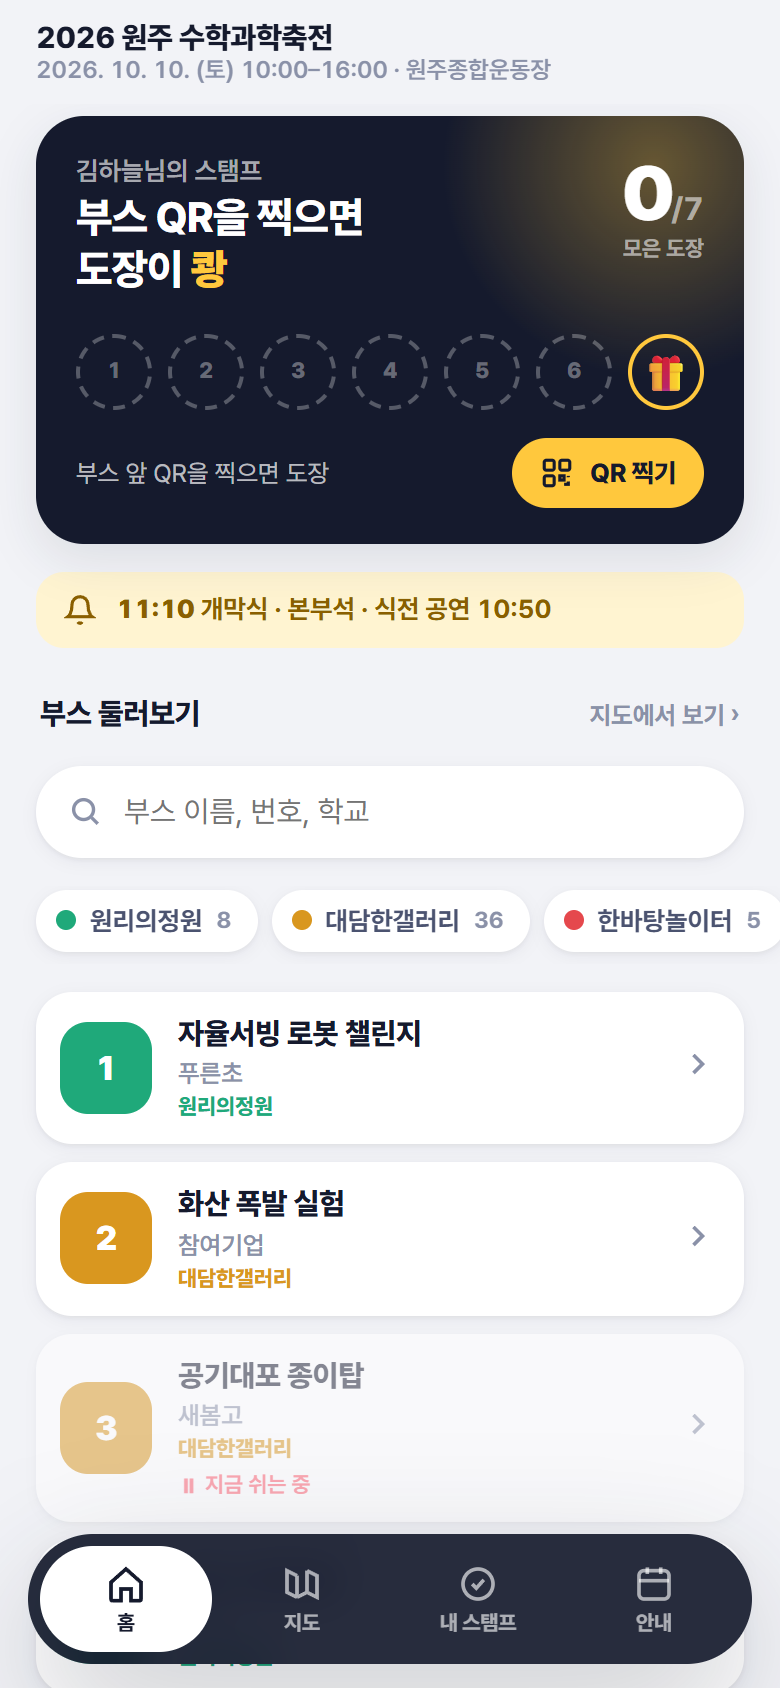
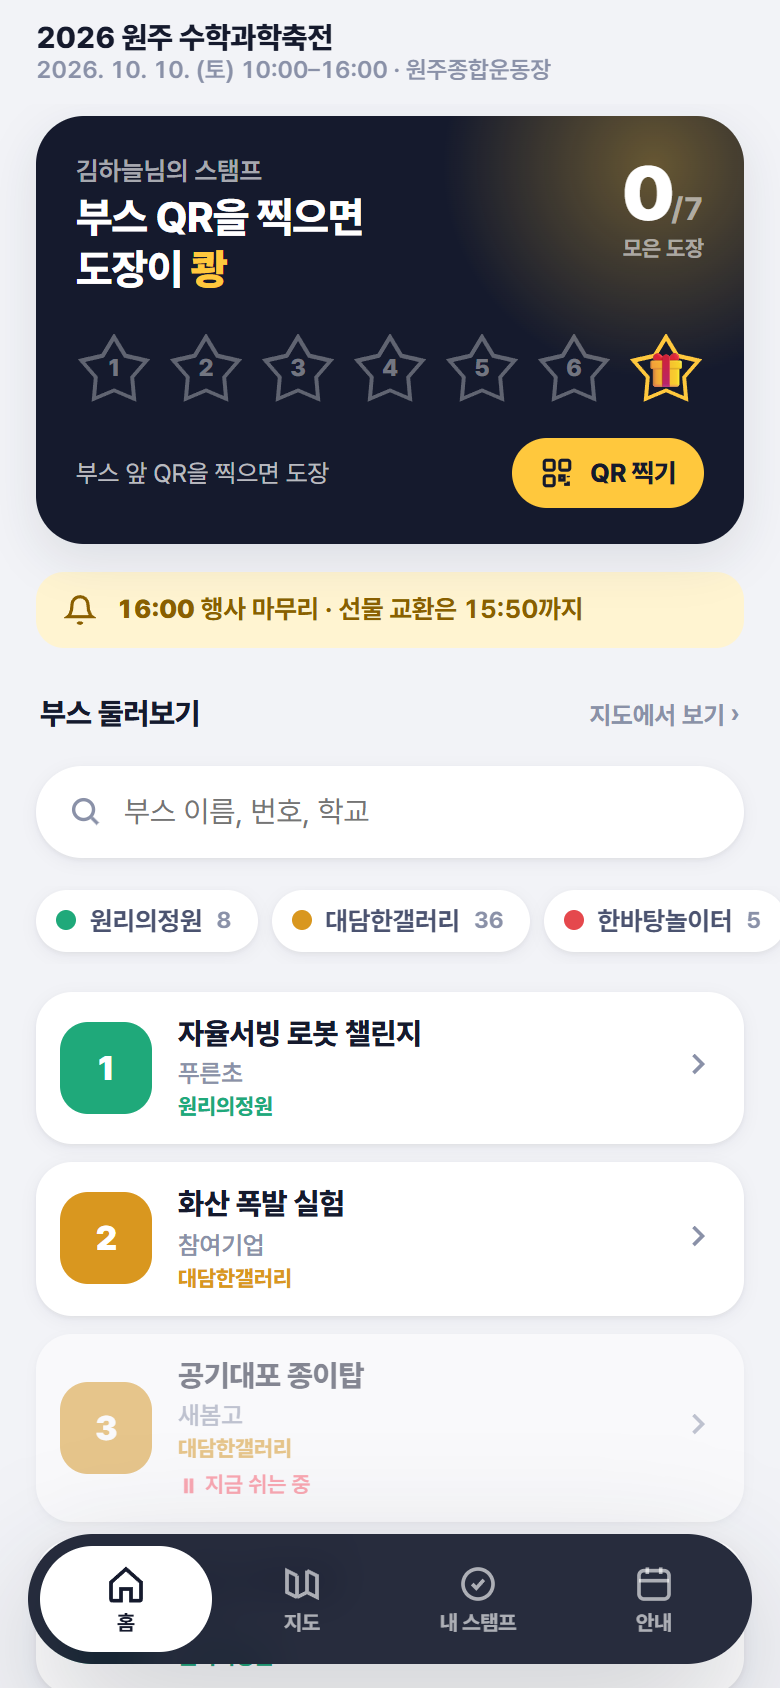
도장 칸 별 모양 · 시간대 전환 자료 분리 · 시간 시트 24시간 입력
- 도장 칸 전부 뚱뚱한 별(clip-path): 빈 칸 흐린 테두리, 찍히면 노란 별, 마지막 칸 🎁
- 시간대 전환 variant 에 hours·media(video/pdf/img) 추가 → 전환 후 사진·PDF·영상이 카드 자료와 안 섞임
- [시간] 시트: 브라우저 time 선택기 대신 24시간 HH:MM 글자 입력(자동 콜론·검증), 라벨 정렬 UI
- 자료·시간 시트 업로드 공용(bindUpload)

diff --git a/원주축전_스탬프앱_3.html b/원주축전_스탬프앱_3.html
@@ -122,12 +122,14 @@ select.inp.sm{padding-right:30px;background-position:right 10px center}
 .sc-count .n small{font-size:16px;color:rgba(255,255,255,.55);font-weight:700;letter-spacing:0}
 .sc-count .l{font-size:11px;color:rgba(255,255,255,.55);font-weight:700;margin-top:2px}
 .slots{display:grid;grid-template-columns:repeat(var(--cols,7),1fr);gap:8px;margin-top:18px;justify-items:center}
-.slot{width:100%;aspect-ratio:1;max-width:66px;border-radius:50%;border:2px dashed rgba(255,255,255,.28);display:grid;place-items:center;position:relative;font-size:11px;font-weight:800;color:rgba(255,255,255,.35)}
-.slot.ink{border:0;background:var(--sun);color:var(--ink);box-shadow:0 6px 14px rgba(255,200,61,.35);transform:rotate(-8deg);animation:stampIn .5s cubic-bezier(.2,1.6,.4,1) both}
+/* 도장 칸 = 뚱뚱한 별(clip-path). 빈 칸: 흐린 별 테두리(::before 가 안쪽을 카드색으로 덮음) · 찍힘: 노란 별 · 마지막 칸: 노란 테두리 별 + 🎁 */
+.slot{--star:polygon(50% 0%,66.5% 27.4%,97.6% 34.5%,76.6% 58.7%,79.4% 90.5%,50% 78%,20.6% 90.5%,23.4% 58.7%,2.4% 34.5%,33.5% 27.4%);width:100%;aspect-ratio:1;max-width:70px;clip-path:var(--star);background:rgba(255,255,255,.32);display:grid;place-items:center;position:relative;isolation:isolate;box-sizing:border-box;padding-bottom:9%;font-size:12px;font-weight:800;color:rgba(255,255,255,.4)}
+.slot::before{content:"";position:absolute;inset:0;background:var(--ink);clip-path:var(--star);transform:scale(.8);transform-origin:50% 46%;z-index:-1}
+.slot.ink{background:var(--sun);color:var(--ink);transform:rotate(-8deg);animation:stampIn .5s cubic-bezier(.2,1.6,.4,1) both}
+.slot.ink::before{display:none}
 .slot.ink .num{font-size:15px;font-weight:900;letter-spacing:-.02em}
-.slot.ink::after{content:"";position:absolute;inset:4px;border:1.5px dashed rgba(21,26,45,.35);border-radius:50%}
-.slot.gift{border:2px solid var(--sun);color:var(--sun);font-size:18px}
-.slot.ink.pend{background:var(--sun-soft);box-shadow:none;border:2px dashed var(--sun)}
+.slot.gift{background:var(--sun);color:var(--sun);font-size:17px}
+.slot.ink.pend{background:var(--sun-soft)}
 .sg .n.pend{background:var(--sun-soft);border:2px dashed var(--sun)}
 @keyframes stampIn{0%{transform:scale(1.9) rotate(10deg);opacity:0}60%{opacity:1}100%{transform:scale(1) rotate(-8deg);opacity:1}}
 .sc-foot{margin-top:14px;font-size:12.5px;color:rgba(255,255,255,.7);display:flex;align-items:center;gap:8px}
@@ -166,6 +168,10 @@ select.inp.sm{padding-right:30px;background-position:right 10px center}
 .hero .pill{background:rgba(255,255,255,.2);color:#fff;margin-top:14px}
 .desc{font-size:15px;line-height:1.7;color:var(--ink-2)}
 .bimg{width:100%;display:block;border-radius:var(--r);box-shadow:var(--sh-1);aspect-ratio:16/10;object-fit:cover;background:var(--card-2);cursor:zoom-in}
+/* 관리자 시간 시트: 라벨 74px + 입력 한 줄, 시각 칸은 가운데 정렬 숫자 */
+.tsheet .tf{display:flex;align-items:flex-start;gap:8px;margin-top:8px}.tsheet .tf .tlb{flex:0 0 74px;font-size:13px;font-weight:700;color:var(--ink-2);padding-top:9px;line-height:1.3}
+.tsheet .tf>.inp,.tsheet .tf>.grow,.tsheet .tf>.row{flex:1;min-width:0}.tsheet .tmr{gap:6px;align-items:center}.tsheet .tmi{width:0;flex:1;text-align:center;font-variant-numeric:tabular-nums;letter-spacing:.04em}
+.tsheet .tsub{font-size:13px;font-weight:800;margin-top:14px;padding-top:10px;border-top:1px solid var(--line-2)}.inp.bad{border-color:var(--coral)}
 .bimgwrap{position:relative}.bimgwrap .hint{position:absolute;right:10px;bottom:10px;background:rgba(0,0,0,.55);color:#fff;font-size:11px;font-weight:700;padding:4px 9px;border-radius:999px;pointer-events:none}
 .lightbox{position:fixed;inset:0;z-index:60;background:rgba(0,0,0,.93);display:none;align-items:center;justify-content:center;padding:16px;cursor:zoom-out}.lightbox.show{display:flex}.lightbox img{max-width:100%;max-height:100%;object-fit:contain;border-radius:10px;box-shadow:0 8px 40px rgba(0,0,0,.5)}.lightbox .x{position:absolute;top:calc(12px + var(--sat,0px));right:14px;width:40px;height:40px;border-radius:50%;border:0;background:rgba(255,255,255,.15);color:#fff;font-size:22px;line-height:40px;text-align:center}
 .yt{position:relative;aspect-ratio:16/9;border-radius:14px;overflow:hidden;background:#000}
@@ -874,13 +880,14 @@ const S = {
   svTimer: null,       // 설문 카운트다운 인터벌
   settingsRaw: null,   // 서버 settings.data 원본 (관리자 저장 시 병합용)
 };
-/* 시간대 전환 부스: variant {at,name,org,cat,desc} 가 있고 지금 시각이 at 이후면 바뀐 내용으로 보여줌(번호·id·QR·도장은 그대로). 원래 이름은 baseName 에 */
+/* 시간대 전환 부스: variant {at,name,org,cat,desc,hours,media} 가 있고 지금 시각이 at 이후면 바뀐 내용으로 보여줌(번호·id·QR·도장은 그대로). 원래 이름은 baseName 에.
+   media {video,pdf,img} 가 있으면 바뀐 후엔 그 자료만 보임(카드 자료와 안 섞임), 없으면 카드 자료 그대로. hours 비우면 카드 운영 시간 그대로 */
 function nowMin(){ const d = new Date(); return d.getHours() * 60 + d.getMinutes(); }
 function toMin(t){ const m = String(t || '').match(/(\d{1,2}):(\d{2})/); return m ? +m[1] * 60 + +m[2] : null; }
 /* 일정 시간: '09:00' 또는 '09:00~10:00'(~ - – 모두 됨). 범위면 {start, end} 둘 다, 아니면 end 없음 */
 function schedRange(t){ const m = String(t || '').match(/(\d{1,2}:\d{2})\s*[~\-–]\s*(\d{1,2}:\d{2})/); return m ? { start: m[1], end: m[2] } : { start: String(t || '').trim(), end: '' }; }
 function schedTimeHTML(t){ const r = schedRange(t); return r.end ? `${esc(r.start)}<small>~${esc(r.end)}</small>` : esc(r.start); }
-function bv(b){ const v = b && b.variant; if(!v || toMin(v.at) === null || nowMin() < toMin(v.at)) return b; return { ...b, name: v.name || b.name, org: v.org || b.org, cat: v.cat || b.cat, desc: v.desc || b.desc, switched: true, baseName: b.name }; }
+function bv(b){ const v = b && b.variant; if(!v || toMin(v.at) === null || nowMin() < toMin(v.at)) return b; const m = v.media; return { ...b, name: v.name || b.name, org: v.org || b.org, cat: v.cat || b.cat, desc: v.desc || b.desc, hours: v.hours || b.hours, ...(m ? { video: m.video || '', pdf: m.pdf || '', img: m.img || '' } : {}), switched: true, baseName: b.name }; }
 /* 부스 대상: '' 전체 · elem 초등 이하 · secondary 중고등. 등록 구분(초/중/고/성인)으로 판정 — 성인·미등록은 전부 보임 */
 const TARGETS = [{ id: '', name: '전체' }, { id: 'elem', name: '초등 이하' }, { id: 'secondary', name: '중고등' }];
 function targetName(t){ return (TARGETS.find(x => x.id === (t || '')) || TARGETS[0]).name; }
@@ -2104,7 +2111,7 @@ function admBooths(){
           <select class="inp sm f-zone" data-f="zone" title="구역">${ZONES.map(z => `<option value="${z.id}" ${z.id === (b.zone || '') ? 'selected' : ''}>${z.name}</option>`).join('')}</select>
           <input type="hidden" data-f="target" value="${esc(b.target || '')}"><div class="tsel" data-tsel="${i}" title="대상: 초등 이하로 두면 중고등학생 폰에는 안 보이고 도장도 안 찍혀요">${TARGETS.map(t => `<button type="button" class="${(b.target || '') === t.id ? 'on' : ''}" data-t="${t.id}">${t.name}</button>`).join('')}</div>
           <input type="hidden" data-f="hours" value="${esc(b.hours || '')}"><input type="hidden" data-f="variant" value="${esc(b.variant ? JSON.stringify(b.variant) : '')}">
-          <span class="mchip ${b.hours ? 'on' : ''}" data-m="hours">🕒 ${esc(b.hours || '종일')}</span><span class="mchip ${b.variant ? 'on' : ''}" data-m="variant">🔁 ${b.variant ? esc(b.variant.at) + ' 전환' : '전환 없음'}</span><button class="btn xs soft" data-time="${i}" style="white-space:nowrap" title="운영 시간 · 시간대 전환">시간</button>
+          <span class="mchip ${b.hours ? 'on' : ''}" data-m="hours">🕒 ${esc(b.hours || '종일')}</span><span class="mchip ${b.variant ? 'on' : ''}" data-m="variant">🔁 ${b.variant ? esc(b.variant.at) + ' 전환' + (b.variant.media ? ' · 자료 별도' : '') : '전환 없음'}</span><button class="btn xs soft" data-time="${i}" style="white-space:nowrap" title="운영 시간 · 시간대 전환">시간</button>
           <input class="inp sm f-desc" value="${esc(b.desc || '')}" data-f="desc" placeholder="소개 (방문객 부스 소개 화면에 나와요)"></div></div>`).join('')}
     </div>
     <div class="row no-print"><button class="btn blue" id="bSave">변경사항 저장</button><span class="small muted">저장 전엔 지도에 반영되지 않아요</span></div>`);
@@ -2139,12 +2146,19 @@ function admBooths(){
   const nKey = n => { const m = String(n || '').trim().match(/^(\D*)(\d+)(.*)$/); return m ? [m[1] ? 1 : 0, m[1], +m[2], m[3]] : [2, String(n || ''), 0, '']; };
   $('#bSort').onclick = () => { const list = collect(); list.sort((a, b) => { const x = nKey(a.n), y = nKey(b.n); for(let k = 0; k < 4; k++){ if(x[k] < y[k]) return -1; if(x[k] > y[k]) return 1; } return 0; }); S.booths = list; renderAdmin('booths'); toast('번호순으로 정렬했어요 · 저장을 눌러야 반영돼요'); };
   /* 자료(영상·PDF·사진) 편집 시트. 행의 hidden input(data-f=video/pdf/img)을 읽고 [확인] 때 다시 써넣음 → 저장은 표 아래 [변경사항 저장] 한 번 */
+  const fname = u => { u = String(u || ''); if(u.startsWith('local:')) return '올린 파일'; try{ return decodeURIComponent(u.split('?')[0].split('/').pop()) || u; }catch(e){ return u; } };
+  const pvImg = (box, url) => { box.innerHTML = ''; if(!url) return box.innerHTML = '<span class="small muted">아직 없어요</span>'; const im = document.createElement('img'); im.src = url; im.style.cssText = 'width:100%;max-width:320px;border-radius:12px;display:block;cursor:zoom-in'; im.onclick = () => openLightbox(url); im.onerror = () => { box.innerHTML = '<span class="small" style="color:var(--coral)">사진을 불러올 수 없어요</span>'; }; box.appendChild(im); };
+  /* 파일 올리기 공용(자료 시트·시간 시트): 20MB 제한, 올린 주소를 input 에 넣고 after() */
+  const bindUpload = (fileSel, inputSel, boothId, kind, after) => $(fileSel).onchange = async e => {
+    const f = e.target.files[0]; if(!f) return; e.target.value = '';
+    if(f.size > 20e6) return toast('20MB 이하 파일만 올릴 수 있어요');
+    try{ toast('올리는 중…'); $(inputSel).value = await uploadFile(f, boothId, kind); after(); toast('올렸어요'); }
+    catch(err){ toast(err.message || '업로드 실패'); }
+  };
   const openMediaSheet = i => {
     const tr = $(`.brow[data-i="${i}"]`), b = S.booths[i];
     const get = k => $(`[data-f=${k}]`, tr).value.trim();
     const IDS = { video: '#mVideo', pdf: '#mPdf', img: '#mImg' };
-    const fname = u => { u = String(u || ''); if(u.startsWith('local:')) return '올린 파일'; try{ return decodeURIComponent(u.split('?')[0].split('/').pop()) || u; }catch(e){ return u; } };
-    const pvImg = (box, url) => { box.innerHTML = ''; if(!url) return box.innerHTML = '<span class="small muted">아직 없어요</span>'; const im = document.createElement('img'); im.src = url; im.style.cssText = 'width:100%;max-width:320px;border-radius:12px;display:block;cursor:zoom-in'; im.onclick = () => openLightbox(url); im.onerror = () => { box.innerHTML = '<span class="small" style="color:var(--coral)">사진을 불러올 수 없어요</span>'; }; box.appendChild(im); };
     openSheet(`
       <div class="h-sec" style="margin:0 0 4px">${esc(get('n'))} · ${esc(get('name') || b.name || '')}</div>
       <p class="small muted" style="margin:0 0 14px;line-height:1.5">방문객의 부스 소개 화면에 나오는 자료예요. 확인을 누르면 표에 들어가고, 표 아래 [변경사항 저장]을 눌러야 저장돼요.</p>
@@ -2173,56 +2187,86 @@ function admBooths(){
       const im = $('#mImg').value.trim(); $('#mImgClear').hidden = !im;
       if(im) resolveFileUrl(im).then(u => { const box = $('#mImgPv'); if(box) pvImg(box, u); }); else pvImg($('#mImgPv'), '');
     };
-    const up = (fileSel, kind) => $(fileSel).onchange = async e => {
-      const f = e.target.files[0]; if(!f) return; e.target.value = '';
-      if(f.size > 20e6) return toast('20MB 이하 파일만 올릴 수 있어요');
-      try{ toast('올리는 중…'); $(IDS[kind]).value = await uploadFile(f, b.id, kind); pv(); toast('올렸어요'); }
-      catch(err){ toast(err.message || '업로드 실패'); }
-    };
-    up('#mPdfFile', 'pdf'); up('#mImgFile', 'img');
+    bindUpload('#mPdfFile', '#mPdf', b.id, 'pdf', pv); bindUpload('#mImgFile', '#mImg', b.id, 'img', pv);
     $('#mPdfClear').onclick = () => { $('#mPdf').value = ''; pv(); }; $('#mImgClear').onclick = () => { $('#mImg').value = ''; pv(); };
     Object.values(IDS).forEach(s => $(s).oninput = pv); pv();
     $('#mOk').onclick = () => { Object.entries(IDS).forEach(([k, s]) => { const val = $(s).value.trim(); $(`[data-f=${k}]`, tr).value = val; $(`[data-m=${k}]`, tr).classList.toggle('on', !!val); }); closeSheet(); toast('표에 넣었어요 · 아래 저장을 눌러야 반영돼요'); };
   };
   $$('[data-media]').forEach(el => el.onclick = () => openMediaSheet(+el.dataset.media));
-  /* 시간 시트: 운영 시간(시작~끝, 시간 선택기) + 시간대 전환(그 시각부터 다른 부스명·기관·분류·소개로 보임). hidden input(data-f=hours/variant)에 넣고 [변경사항 저장] 때 함께 저장 */
+  /* 시간 시트: 운영 시간(시작~끝) + 시간대 전환(그 시각부터 다른 부스명·기관·분류·소개·운영 시간·자료로 보임).
+     시각은 24시간 'HH:MM' 글자 입력(숫자만 치면 1300 → 13:00 자동, 브라우저 time 선택기의 오전/오후 표기 때문에 안 씀).
+     hidden input(data-f=hours/variant)에 넣고 [변경사항 저장] 때 함께 저장 */
   const openTimeSheet = i => {
     const tr = $(`.brow[data-i="${i}"]`), b = S.booths[i];
     const get = k => $(`[data-f=${k}]`, tr).value.trim();
-    const hm = get('hours').match(/(\d{1,2}:\d{2})\s*[~\-–]\s*(\d{1,2}:\d{2})/) || [];
+    const range = t => String(t || '').match(/(\d{1,2}:\d{2})\s*[~\-–]\s*(\d{1,2}:\d{2})/) || [];
     let v = null; try{ v = get('variant') ? JSON.parse(get('variant')) : null; }catch(e){}
+    const hm = range(get('hours')), vh = range(v && v.hours), vm = (v && v.media) || null;
     const pad = t => t ? t.split(':').map(x => x.padStart(2, '0')).join(':') : '';
+    const tm = (id, val, ph) => `<input class="inp sm tmi" id="${id}" value="${esc(pad(val))}" placeholder="${ph}" inputmode="numeric" maxlength="5" autocomplete="off">`;
+    const field = (label, html) => `<div class="tf"><span class="tlb">${label}</span>${html}</div>`;
+    const fileRow = (kind, accept) => `<div class="grow"><div class="row" style="gap:6px;flex-wrap:wrap;align-items:center"><label class="btn sm line" style="cursor:pointer">파일 올리기<input type="file" accept="${accept}" id="t${kind}File" hidden></label><button class="btn sm soft" id="t${kind}Clear" style="color:var(--coral)" hidden>지우기</button>${kind === 'Pdf' ? '<span class="small muted" id="tPdfName" style="word-break:break-all"></span>' : ''}</div>${kind === 'Img' ? '<div id="tImgPv" style="margin-top:6px"></div>' : ''}<input class="inp sm" id="t${kind}" value="${esc((vm && vm[kind.toLowerCase()]) || '')}" placeholder="또는 주소 직접 입력" style="margin-top:6px"></div>`;
     openSheet(`
       <div class="h-sec" style="margin:0 0 4px">${esc(get('n'))} · ${esc(get('name') || b.name || '')}</div>
-      <p class="small muted" style="margin:0 0 14px;line-height:1.5">확인을 누르면 표에 들어가고, 표 아래 [변경사항 저장]을 눌러야 저장돼요.</p>
-      <div class="card tight" style="margin-bottom:10px"><div class="kv"><div class="k">🕒 운영 시간 <span class="small muted" style="font-weight:600">비우면 종일</span></div>
-        <div class="row" style="gap:8px;align-items:center;margin-top:6px"><input class="inp sm" type="time" id="tStart" value="${pad(hm[1])}" style="flex:1"><span>~</span><input class="inp sm" type="time" id="tEnd" value="${pad(hm[2])}" style="flex:1"><button class="btn xs soft" id="tClear">종일</button></div></div></div>
-      <div class="card tight" style="margin-bottom:14px"><div class="kv"><div class="k">🔁 시간이 되면 다른 부스로 바뀌어요</div>
-        <label class="row" style="gap:8px;align-items:center;margin:6px 0;cursor:pointer"><input type="checkbox" id="tSw" ${v ? 'checked' : ''}><span class="small">예: 오전엔 운영본부, 오후엔 체험 부스</span></label>
-        <div id="tSwBox" ${v ? '' : 'hidden'}>
-          <div class="row" style="gap:8px;align-items:center;margin-bottom:6px"><span class="small" style="flex:0 0 70px">바뀌는 시각</span><input class="inp sm" type="time" id="tAt" value="${esc((v && v.at) || '13:00')}" style="flex:1"></div>
-          <input class="inp sm" id="tName" value="${esc((v && v.name) || '')}" placeholder="바뀐 후 부스명 *" style="margin-bottom:6px">
-          <input class="inp sm" id="tOrg" value="${esc((v && v.org) || '')}" placeholder="바뀐 후 운영기관 (비우면 그대로)" style="margin-bottom:6px">
-          <input class="inp sm" id="tCat" value="${esc(v && v.cat ? catOf(v.cat).name : '')}" placeholder="바뀐 후 분류 (비우면 그대로)" style="margin-bottom:6px">
-          <input class="inp sm" id="tDesc" value="${esc((v && v.desc) || '')}" placeholder="바뀐 후 소개 (비우면 그대로)">
-          <p class="small muted" style="margin:8px 0 0;line-height:1.5">그 시각 전엔 카드에 적은 내용이, 지나면 여기 적은 내용이 방문객에게 보여요. 번호·QR·도장은 하나로 같아요.</p>
-        </div></div></div>
+      <p class="small muted" style="margin:0 0 12px;line-height:1.5">시각은 24시간으로 적어요(오후 1시 → 13:00). 확인을 누른 뒤 표 아래 [변경사항 저장]을 눌러야 저장돼요.</p>
+      <div class="card tight tsheet" style="margin-bottom:10px"><div class="kv">
+        <div class="k">🕒 운영 시간 <span class="small muted" style="font-weight:600">비우면 종일</span></div>
+        ${field('시간', `<div class="row tmr">${tm('tStart', hm[1], '10:00')}<span>~</span>${tm('tEnd', hm[2], '16:00')}<button class="btn xs soft" id="tClear">종일</button></div>`)}
+      </div></div>
+      <div class="card tight tsheet" style="margin-bottom:14px"><div class="kv">
+        <label class="row" style="gap:8px;align-items:center;cursor:pointer"><input type="checkbox" id="tSw" ${v ? 'checked' : ''}><span class="k" style="margin:0">🔁 시간이 되면 다른 부스로 바뀌어요</span></label>
+        <p class="small muted" style="margin:4px 0 0 26px;line-height:1.5">예: 오전엔 운영본부, 오후엔 체험 부스. 번호·QR·도장은 하나로 같아요.</p>
+        <div id="tSwBox" ${v ? '' : 'hidden'} style="margin-top:6px">
+          ${field('바뀌는 시각', tm('tAt', (v && v.at) || '13:00', '13:00'))}
+          <div class="tsub">바뀐 후 내용 <span class="small muted" style="font-weight:600">비우면 카드 내용 그대로</span></div>
+          ${field('부스명 *', `<input class="inp sm" id="tName" value="${esc((v && v.name) || '')}" placeholder="바뀐 후 부스명">`)}
+          ${field('운영기관', `<input class="inp sm" id="tOrg" value="${esc((v && v.org) || '')}" placeholder="그대로">`)}
+          ${field('분류', `<input class="inp sm" id="tCat" value="${esc(v && v.cat ? catOf(v.cat).name : '')}" placeholder="그대로">`)}
+          ${field('소개', `<input class="inp sm" id="tDesc" value="${esc((v && v.desc) || '')}" placeholder="그대로">`)}
+          ${field('운영 시간', `<div class="row tmr">${tm('tVStart', vh[1], '13:00')}<span>~</span>${tm('tVEnd', vh[2], '16:00')}</div>`)}
+          <div class="tsub"><label style="cursor:pointer;display:inline-flex;gap:8px;align-items:center"><input type="checkbox" id="tMed" ${vm ? 'checked' : ''}>바뀐 후 자료 따로</label> <span class="small muted" style="font-weight:600">체크 안 하면 카드 [자료] 그대로</span></div>
+          <div id="tMedBox" ${vm ? '' : 'hidden'}>
+            ${field('유튜브', `<input class="inp sm" id="tVideo" value="${esc((vm && vm.video) || '')}" placeholder="주소 (없으면 비움)">`)}
+            ${field('PDF', fileRow('Pdf', 'application/pdf'))}
+            ${field('사진', fileRow('Img', 'image/*'))}
+          </div>
+        </div>
+      </div></div>
       <div class="row" style="gap:8px"><button class="btn blue" id="tOk" style="flex:1">확인</button><button class="btn line" onclick="closeSheet()">취소</button></div>`);
+    /* 24시간 글자 입력: 숫자만 치면 '1300' → '13:00', 잘못된 값은 빨간 테두리 */
+    const tmOk = t => { const m = t.match(/^(\d{1,2}):(\d{2})$/); return !!m && +m[1] < 24 && +m[2] < 60; };
+    const fmtTm = el => { let d = el.value.replace(/\D/g, '').slice(0, 4); if(d.length >= 3) d = d.slice(0, d.length - 2) + ':' + d.slice(-2); el.value = d; el.classList.toggle('bad', !!el.value && !tmOk(el.value)); };
+    const tmVal = id => { const t = $(id).value.trim(); if(!t) return ''; if(!tmOk(t)) throw new Error(`시각은 24시간 HH:MM 으로 적어주세요 (${t})`); return pad(t); };
+    $$('.tmi').forEach(el => { el.oninput = () => fmtTm(el); el.onblur = () => { if(/^\d{1,2}$/.test(el.value)) el.value = el.value.padStart(2, '0') + ':00'; fmtTm(el); }; });
     $('#tSw').onchange = () => { $('#tSwBox').hidden = !$('#tSw').checked; };
+    $('#tMed').onchange = () => { $('#tMedBox').hidden = !$('#tMed').checked; };
     $('#tClear').onclick = () => { $('#tStart').value = ''; $('#tEnd').value = ''; };
+    const tpv = () => {
+      const p = $('#tPdf').value.trim(); $('#tPdfClear').hidden = !p; $('#tPdfName').textContent = p ? fname(p) : '아직 없어요';
+      const im = $('#tImg').value.trim(); $('#tImgClear').hidden = !im;
+      if(im) resolveFileUrl(im).then(u => { const box = $('#tImgPv'); if(box) pvImg(box, u); }); else pvImg($('#tImgPv'), '');
+    };
+    bindUpload('#tPdfFile', '#tPdf', b.id, 'vpdf', tpv); bindUpload('#tImgFile', '#tImg', b.id, 'vimg', tpv);
+    $('#tPdfClear').onclick = () => { $('#tPdf').value = ''; tpv(); }; $('#tImgClear').onclick = () => { $('#tImg').value = ''; tpv(); };
+    $('#tPdf').oninput = tpv; $('#tImg').oninput = tpv; tpv();
     $('#tOk').onclick = () => {
-      const st = $('#tStart').value, en = $('#tEnd').value;
+      let st, en, at, vs, ve;
+      try{ st = tmVal('#tStart'); en = tmVal('#tEnd'); at = tmVal('#tAt'); vs = tmVal('#tVStart'); ve = tmVal('#tVEnd'); }catch(err){ return toast(err.message); }
       if((st && !en) || (!st && en)) return toast('시작과 끝 시각을 둘 다 넣거나 둘 다 비워주세요');
       if(st && en && st >= en) return toast('끝 시각이 시작보다 늦어야 해요');
       let nv = null;
       if($('#tSw').checked){
-        const at = $('#tAt').value, name = $('#tName').value.trim(); if(!at) return toast('바뀌는 시각을 넣어주세요'); if(!name) return toast('바뀐 후 부스명을 넣어주세요');
+        const name = $('#tName').value.trim(); if(!at) return toast('바뀌는 시각을 넣어주세요'); if(!name) return toast('바뀐 후 부스명을 넣어주세요');
+        if((vs && !ve) || (!vs && ve)) return toast('바뀐 후 운영 시간은 시작과 끝을 둘 다 넣거나 둘 다 비워주세요');
+        if(vs && ve && vs >= ve) return toast('바뀐 후 운영 시간의 끝이 시작보다 늦어야 해요');
         const catTxt = $('#tCat').value.trim(); nv = { at, name, org: $('#tOrg').value.trim(), cat: catTxt ? matchCategory(catTxt, '', true) : '', desc: $('#tDesc').value.trim() };
+        if(vs) nv.hours = `${vs}~${ve}`;
+        if($('#tMed').checked) nv.media = { video: $('#tVideo').value.trim(), pdf: $('#tPdf').value.trim(), img: $('#tImg').value.trim() };
       }
       const hours = st ? `${st}~${en}` : '';
       $('[data-f=hours]', tr).value = hours; $('[data-f=variant]', tr).value = nv ? JSON.stringify(nv) : '';
       $('[data-m=hours]', tr).textContent = '🕒 ' + (hours || '종일'); $('[data-m=hours]', tr).classList.toggle('on', !!hours);
-      $('[data-m=variant]', tr).textContent = '🔁 ' + (nv ? nv.at + ' 전환' : '전환 없음'); $('[data-m=variant]', tr).classList.toggle('on', !!nv);
+      $('[data-m=variant]', tr).textContent = '🔁 ' + (nv ? nv.at + ' 전환' + (nv.media ? ' · 자료 별도' : '') : '전환 없음'); $('[data-m=variant]', tr).classList.toggle('on', !!nv);
       closeSheet(); toast('표에 넣었어요 · 아래 저장을 눌러야 반영돼요');
     };
   };
